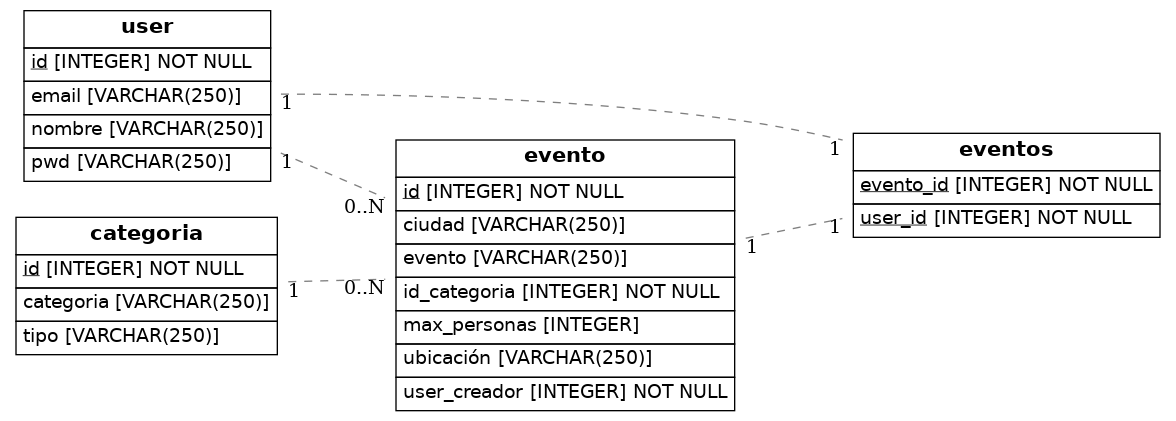
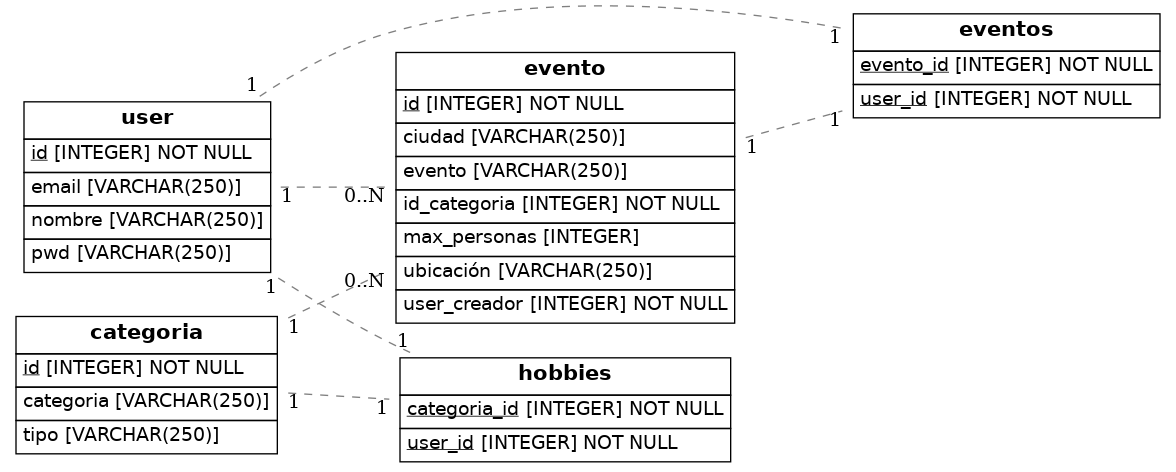
Protecto con tabla hobbies

diff --git a/src/models.py b/src/models.py
@@ -12,6 +12,11 @@ eventos = Table('eventos', Base.metadata,
     Column('user_id', Integer, ForeignKey('user.id'), primary_key=True)
 )
 
+hobbies = Table('hobbies', Base.metadata,
+    Column('categoria_id', Integer, ForeignKey('categoria.id'), primary_key=True),
+    Column('user_id', Integer, ForeignKey('user.id'), primary_key=True)
+)
+
 class User(Base):
     __tablename__ = 'user'
     id = Column(Integer, primary_key=True)
@@ -19,6 +24,7 @@ class User(Base):
     email = Column(String(250), nullable=True)
     pwd = Column(String(250), nullable=True)
     eventos = relationship('Evento', secondary=eventos, backref= 'user', lazy=True)
+    hobbies = relationship('Categoria', secondary=eventos, backref= 'user', lazy=True)
     creado = relationship('Evento', backref='user', lazy=True)
 
 class Evento(Base):
